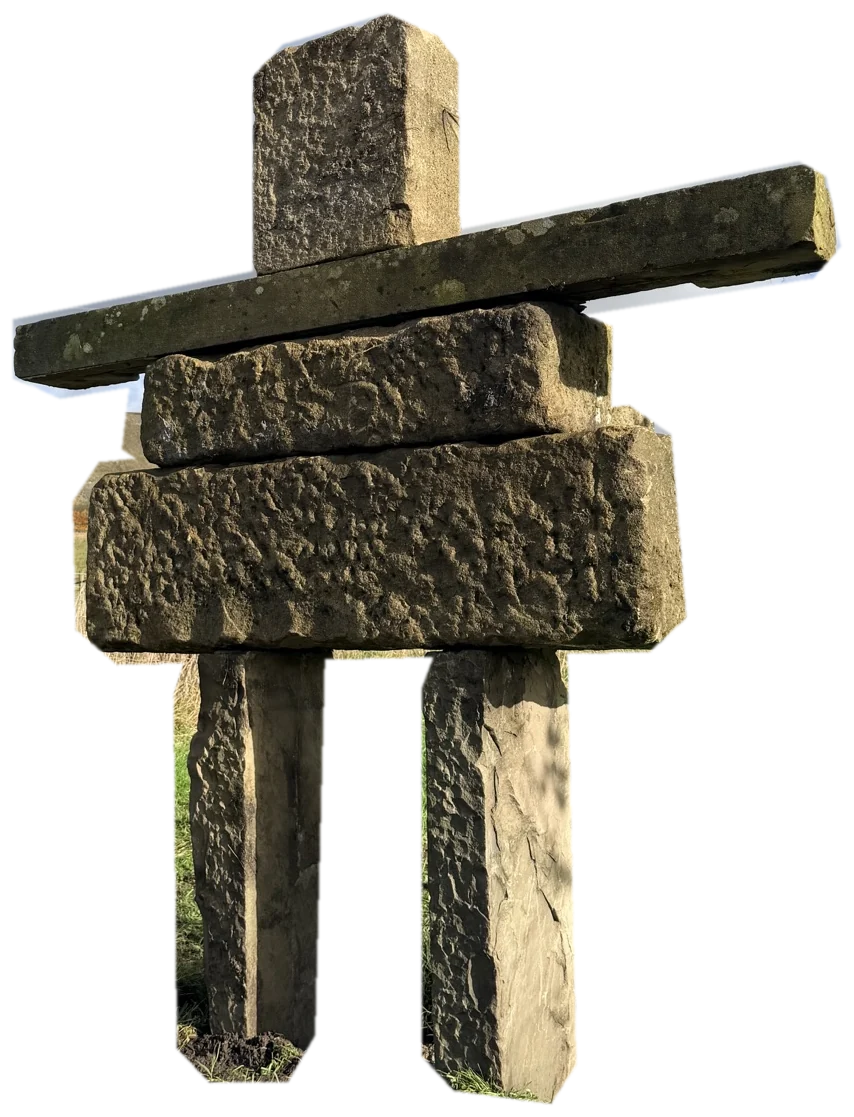
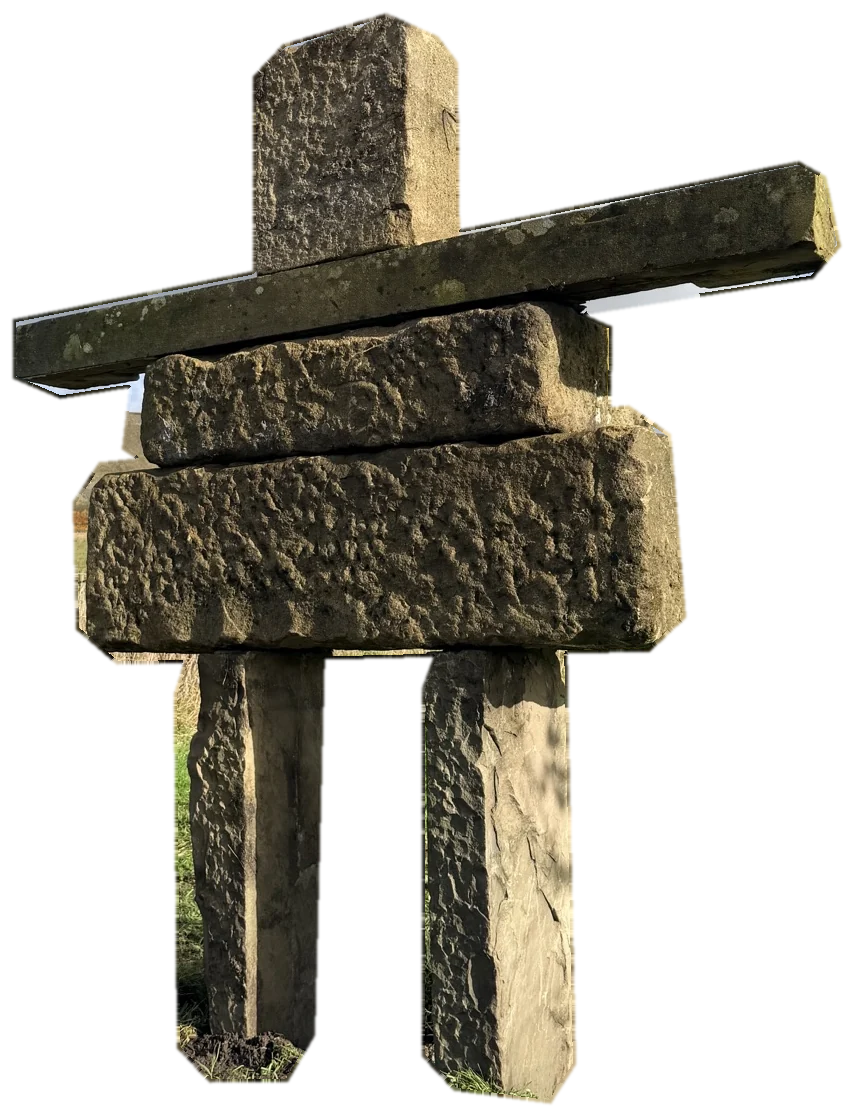
Label the preview as indicative and stop the figure towering over the tree.
The opening illustration is smaller at the same spot on the grass. The distance control is named as indicative, and the page states that the height is not a measurement. The cutout feather no longer stores the pale background colour, and the contact shadow falls to the right with the tree.

diff --git a/legacy-static/index.html b/legacy-static/index.html
@@ -749,10 +749,10 @@
   <section class="visualizer" id="visualizer">
     <div class="container">
       <h2 class="section-title">See It on Your Land</h2>
-      <p class="section-subtitle">Crossbank: concept placement on your land. A 2D photo illustration, not a survey.</p>
+      <p class="section-subtitle">Crossbank: concept placement on your land. A 2D photo illustration, not a survey. Estimated indicative height visualization, not actual measurements.</p>
       <div class="visualizer-shell">
         <div class="viz-stage" id="viz-stage">
-          <canvas id="viz-canvas" width="1600" height="1000" role="img" tabindex="0" aria-label="Crossbank field with a sculpture illustration to preview size and position."></canvas>
+          <canvas id="viz-canvas" width="1600" height="1000" role="img" tabindex="0" aria-label="Crossbank field with a sculpture illustration to preview size and position. Estimated indicative height, not a measurement."></canvas>
           <p class="viz-tip" id="viz-tip">Drag the base of the illustration. It gets smaller as it moves toward the horizon.</p>
         </div>
         <aside class="viz-controls" aria-label="Preview controls">
@@ -784,8 +784,9 @@
             </fieldset>
           </div>
           <div class="viz-control">
-            <label class="viz-control-title" for="distance-input">Distance <span id="distance-readout">4 m</span></label>
+            <label class="viz-control-title" for="distance-input">Indicative distance <span id="distance-readout">4 m</span></label>
             <input id="distance-input" type="range" min="2" max="30" step="1" value="4">
+            <p class="privacy-note">Estimated indicative height visualization, not actual measurements.</p>
           </div>
           <div class="viz-control">
             <label class="viz-control-title" for="horizon-input">Horizon <span id="horizon-readout">12%</span></label>
@@ -803,7 +804,7 @@
             <button class="viz-button" id="reset-btn" type="button">Reset position</button>
             <button class="viz-button primary" id="download-btn" type="button">Download your preview</button>
           </div>
-          <p class="viz-status" id="viz-status" role="status">Crossbank: concept placement on your land. A 2D photo illustration, not a survey.</p>
+          <p class="viz-status" id="viz-status" role="status">Crossbank: concept placement on your land. A 2D photo illustration, not a survey. Estimated indicative height visualization, not actual measurements.</p>
         </aside>
       </div>
     </div>
@@ -1294,7 +1295,7 @@
       const DEPTH_POW = 0.85;
       const NEAR_DROP = 0.9;
       const FAR_DROP = 0.52;
-      const PX_PER_METRE_DEPTH = 0.255;
+      const PX_PER_METRE_DEPTH = 0.194;
       let dragging = false;
       let flipped = false;
       let x = canvas.width * samples.mown.x;
@@ -1396,14 +1397,14 @@
           ? sculpture.naturalWidth / sculpture.naturalHeight
           : 0.76;
         const drawWidth = drawHeight * ratio;
-        const lightShift = drawWidth * 0.16;
+        const lightShift = drawWidth * 0.36;
         const shade = ctx.createRadialGradient(x + lightShift, footY, 2, x + lightShift, footY, Math.max(18, drawWidth * 0.62));
         shade.addColorStop(0, 'rgba(24, 20, 14, 0.5)');
         shade.addColorStop(0.42, 'rgba(24, 20, 14, 0.18)');
         shade.addColorStop(1, 'rgba(24, 20, 14, 0)');
         ctx.fillStyle = shade;
         ctx.beginPath();
-        ctx.ellipse(x + lightShift, footY + 1, Math.max(10, drawWidth * 0.48), Math.max(3, drawHeight * 0.04), 0, 0, Math.PI * 2);
+        ctx.ellipse(x + lightShift, footY + 2, Math.max(12, drawWidth * 0.55), Math.max(4, drawHeight * 0.035), 0, 0, Math.PI * 2);
         ctx.fill();
 
         if (sculpture.complete && sculpture.naturalWidth) {
@@ -1552,12 +1553,12 @@
       });
       mownButton.addEventListener('click', () => {
         applySample('mown');
-        status.textContent = 'Crossbank: concept placement on your land. A 2D photo illustration, not a survey.';
+        status.textContent = 'Crossbank: concept placement on your land. A 2D photo illustration, not a survey. Estimated indicative height visualization, not actual measurements.';
         tip.classList.remove('hidden');
       });
       meadowButton.addEventListener('click', () => {
         applySample('meadow');
-        status.textContent = 'Crossbank: concept placement on your land. A 2D photo illustration, not a survey.';
+        status.textContent = 'Crossbank: concept placement on your land. A 2D photo illustration, not a survey. Estimated indicative height visualization, not actual measurements.';
         tip.classList.remove('hidden');
       });
       downloadButton.addEventListener('click', () => {

diff --git a/legacy-static/terms.html b/legacy-static/terms.html
@@ -24,7 +24,7 @@
       <h2>Project enquiries</h2>
       <p>Sending an enquiry does not create a contract or reserve a build date. A commission begins only when the parties agree a written scope, price, programme and payment terms.</p>
       <h2>Land visualizer</h2>
-      <p>The “See It on Your Land” tool is an illustrative concept aid. It does not represent measured dimensions, final stone selection, structural design, planning approval or a guaranteed finished appearance.</p>
+      <p>The “See It on Your Land” tool is an illustrative concept aid. Estimated indicative height visualization, not actual measurements. It does not represent measured dimensions, final stone selection, structural design, planning approval or a guaranteed finished appearance.</p>
       <h2>Planning, engineering and site conditions</h2>
       <p>Planning requirements, utilities, access, ground conditions and structural needs vary by site. They are assessed separately during project development. Visitors should not rely on general website content as professional planning, engineering or safety advice.</p>
       <h2>Intellectual property</h2>
